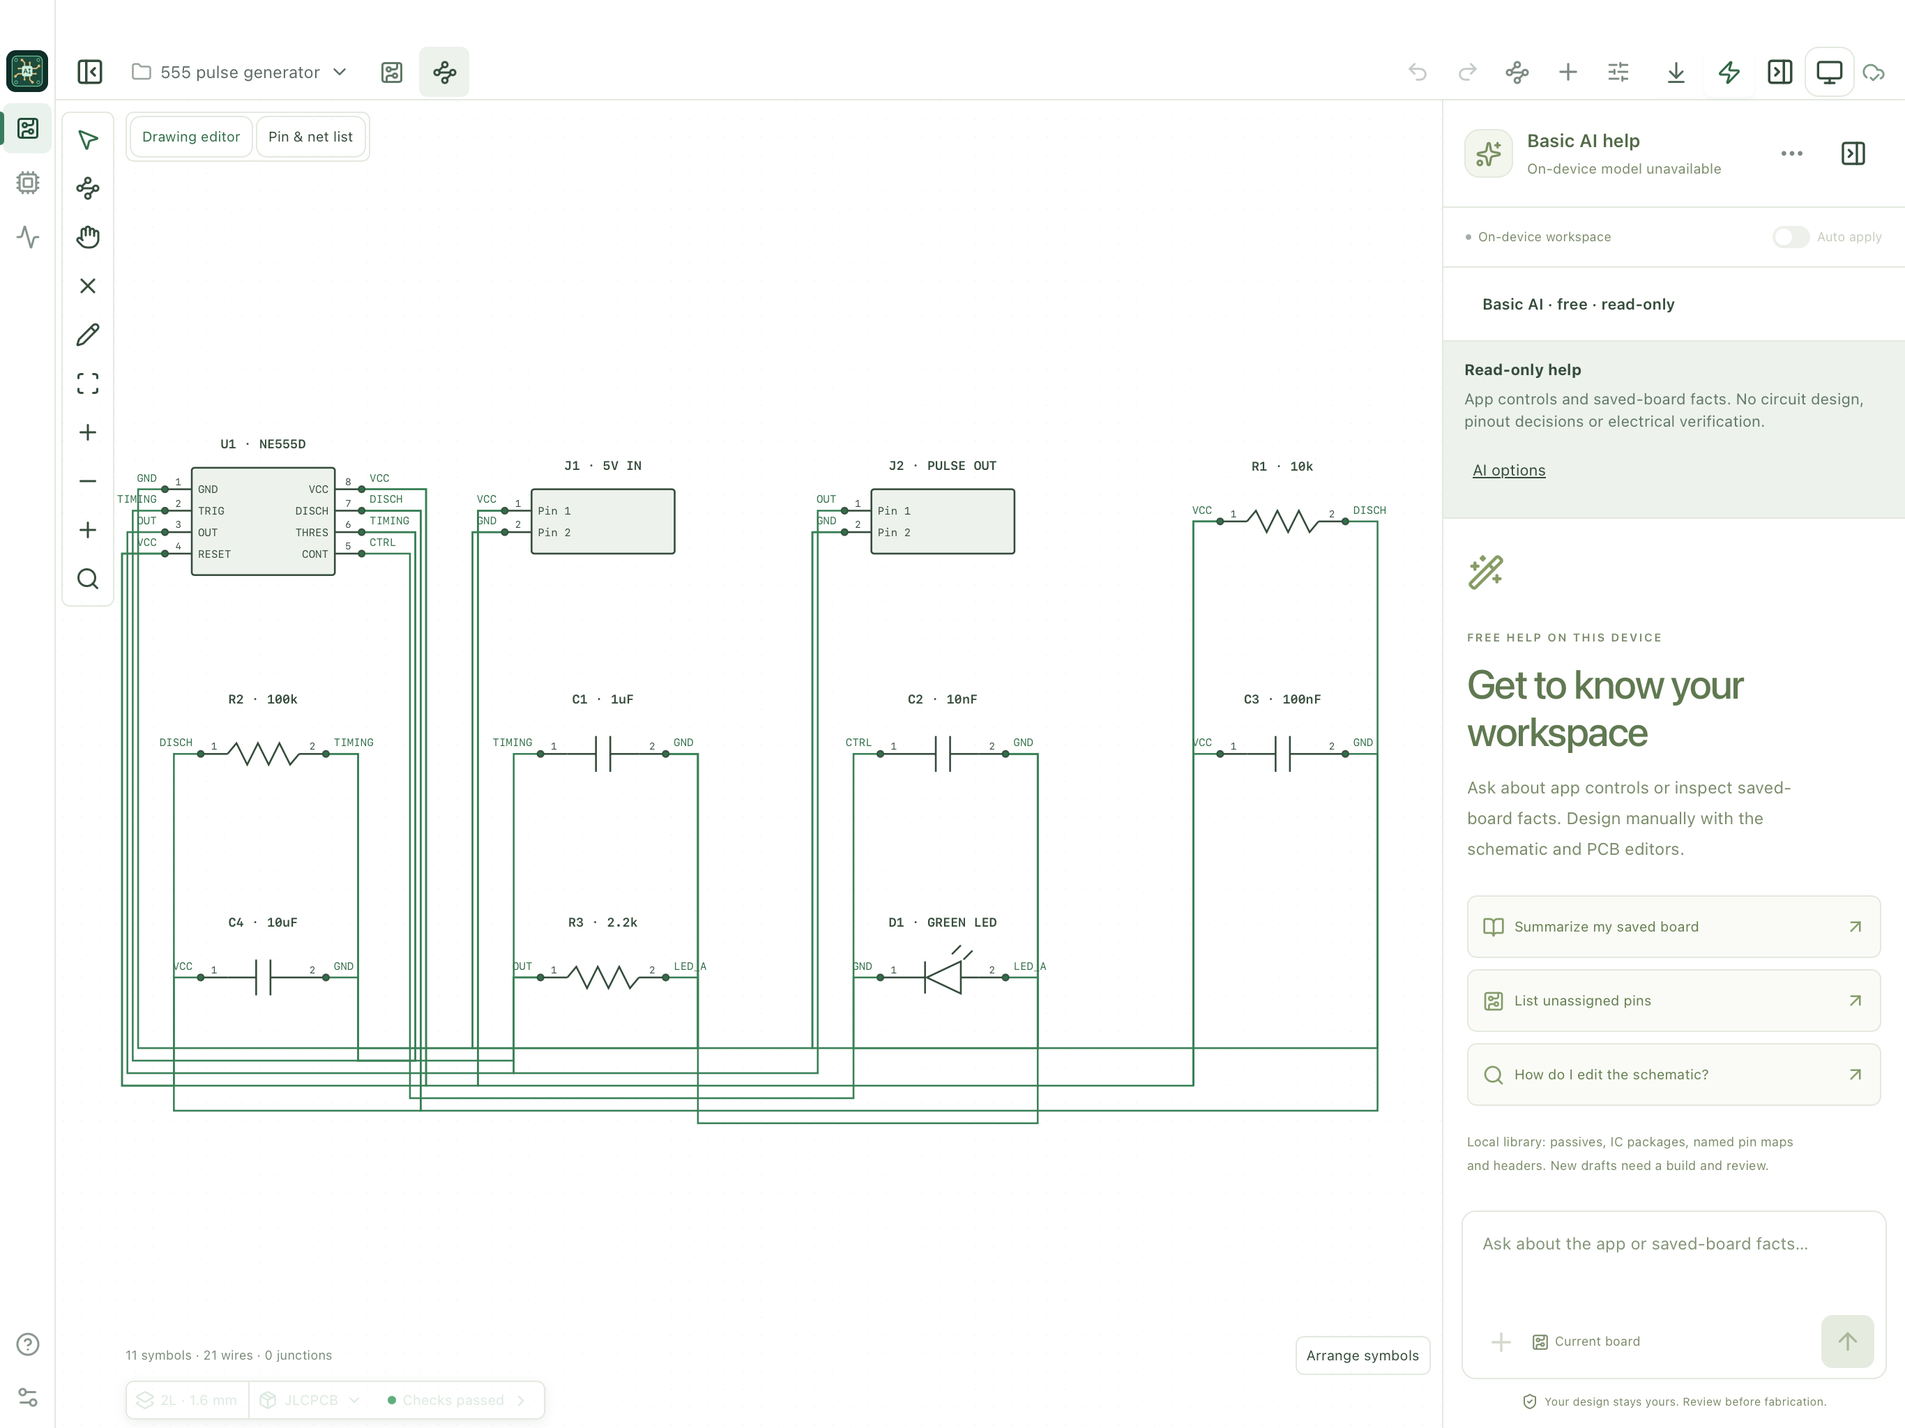
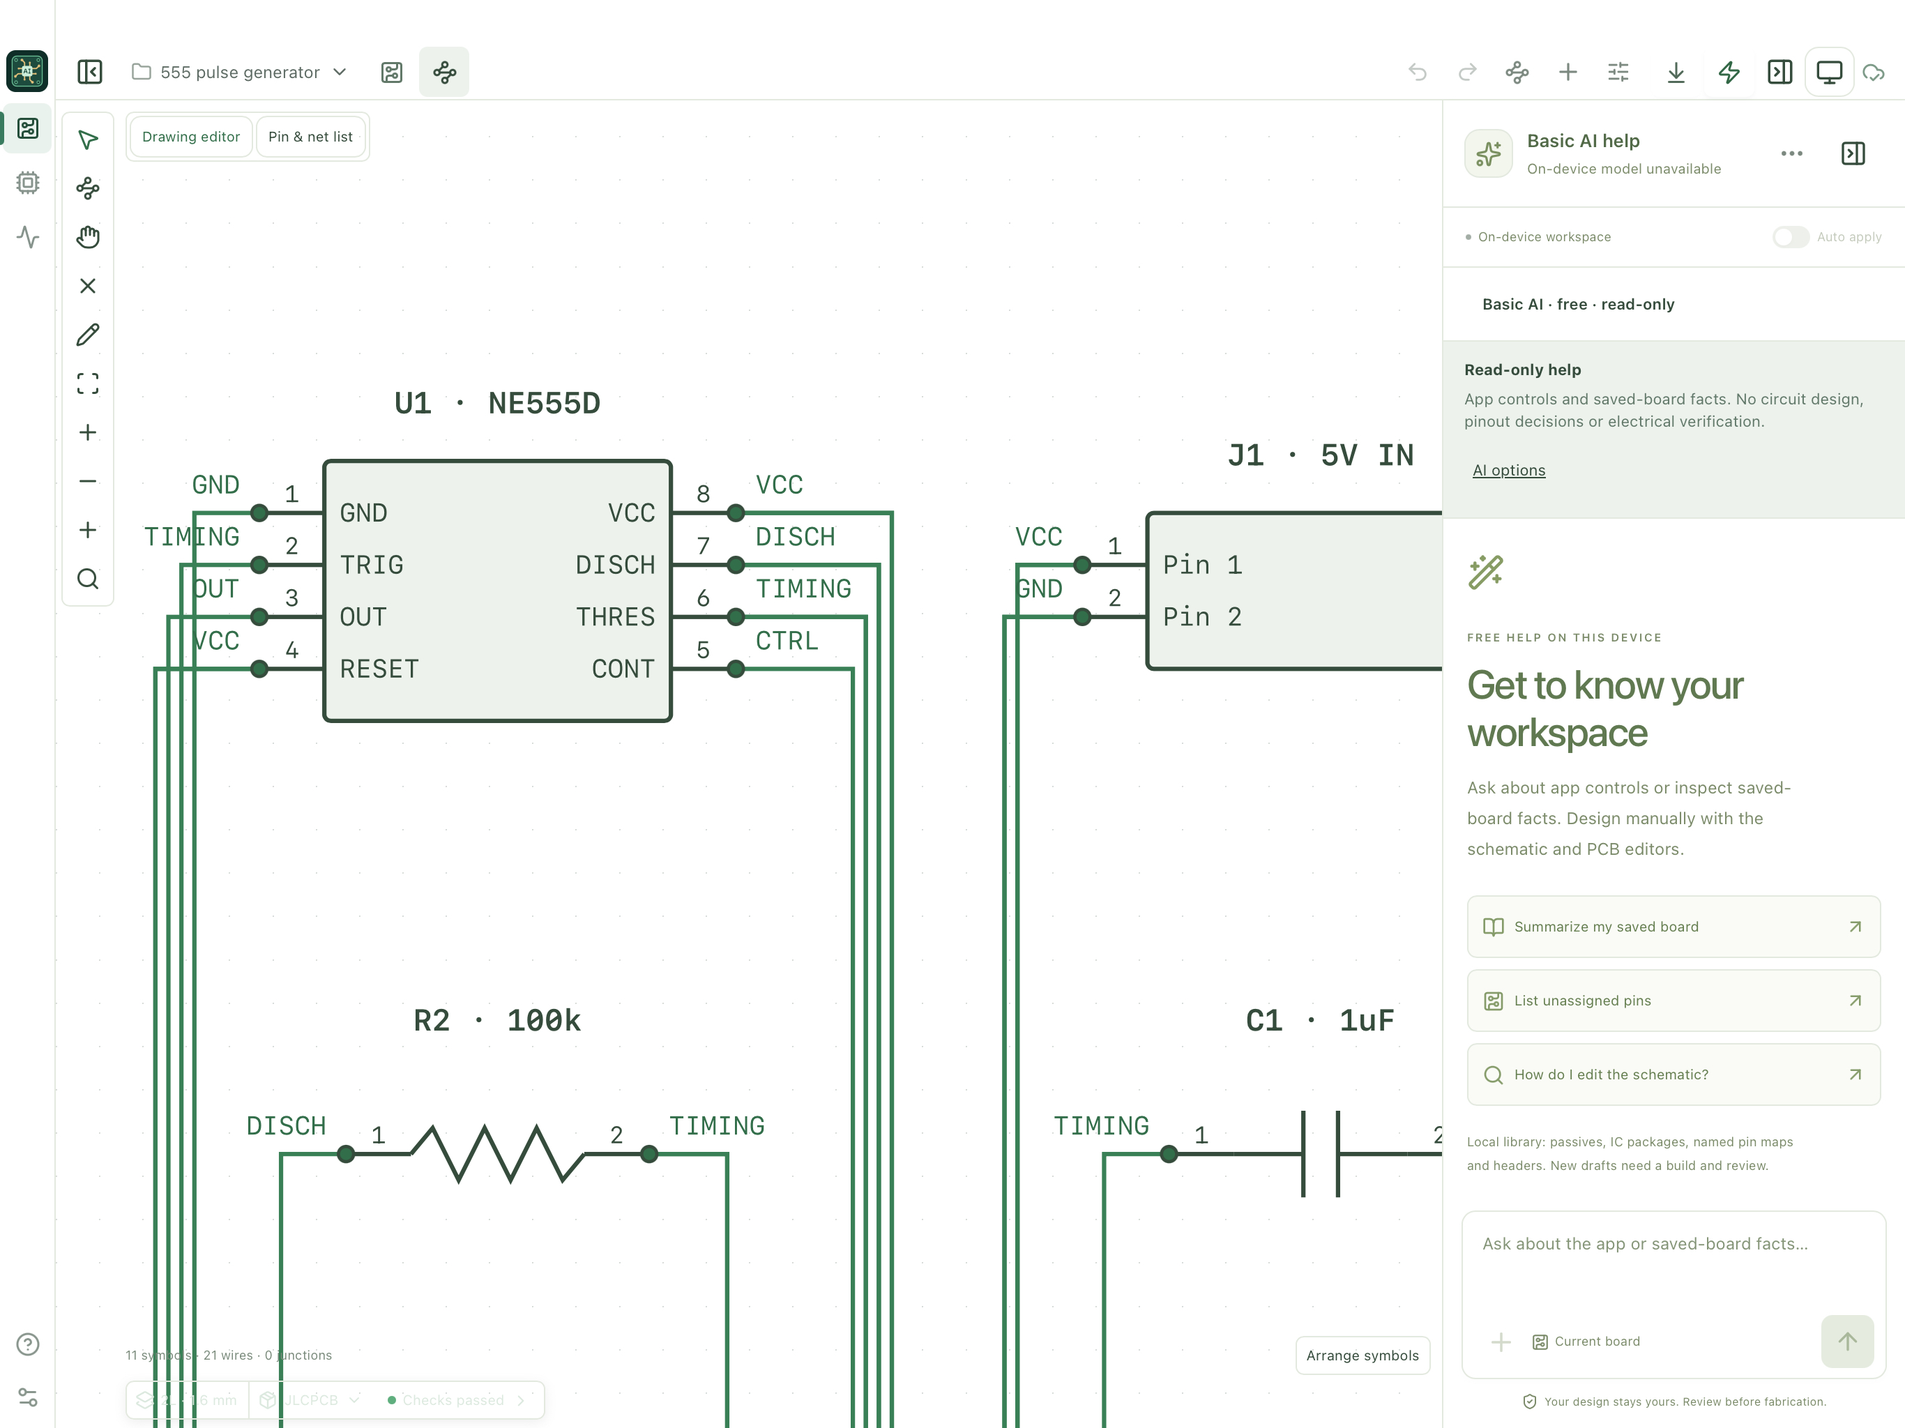
Describe the independent PCB checker and its supported rule coverage

diff --git a/index.html b/index.html
@@ -1,19 +1,19 @@
 <!doctype html>
-<html lang="en"><head><meta charset="utf-8"><meta name="viewport" content="width=device-width,initial-scale=1"><meta name="description" content="An AI-assisted PCB design suite for iPad and iPhone. Create schematics with Apple Pencil, route boards, run native KiCad DRC, source components and export fabrication files."><title>Vibe PCB · AI Design Suite</title><link rel="icon" href="./icon.svg"><style>
+<html lang="en"><head><meta charset="utf-8"><meta name="viewport" content="width=device-width,initial-scale=1"><meta name="description" content="An AI-assisted PCB design suite for iPad and iPhone. Create schematics with Apple Pencil, route boards, run independent PCB DRC, source components and export fabrication files."><title>Vibe PCB · AI Design Suite</title><link rel="icon" href="./icon.svg"><style>
 :root{color-scheme:dark;--ink:#eaf3ed;--muted:#a8bdb1;--mint:#b9f3d2;--line:#2d473d}*{box-sizing:border-box}body{margin:0;background:#10251f;color:var(--ink);font:16px/1.65 system-ui,-apple-system,sans-serif}a{color:var(--mint);text-underline-offset:4px}nav,main,footer{max-width:1160px;margin:auto;padding-left:32px;padding-right:32px}nav{display:flex;align-items:center;justify-content:space-between;gap:20px;padding-top:28px;padding-bottom:28px;border-bottom:1px solid var(--line)}.brand{display:flex;align-items:center;gap:13px;text-decoration:none;color:var(--ink)}.brand img{width:48px;height:48px}.brand b{display:block;font-size:20px;letter-spacing:-.5px}.brand span{display:block;font-size:12px;color:var(--muted)}.nav-links{display:flex;gap:24px;font-size:14px}.eyebrow{text-transform:uppercase;letter-spacing:2px;font-size:12px;color:var(--mint);font-weight:650}.hero{padding:76px 0 52px;max-width:900px}h1{font-size:clamp(40px,6.5vw,76px);line-height:1.06;letter-spacing:-3px;margin:20px 0 28px;font-weight:620}h1 em{font-style:normal;color:var(--mint)}.lead{font-size:21px;line-height:1.6;max-width:800px;color:#c5d6cb}.capabilities{display:flex;flex-wrap:wrap;gap:10px;margin-top:28px}.capabilities span{border:1px solid #426352;border-radius:6px;padding:7px 12px;font-size:13px;color:#dfefe4}.product{border:1px solid #527160;border-radius:14px;overflow:hidden;background:#193a2d;box-shadow:0 24px 70px #0003;margin:0}.product img{display:block;width:100%;height:auto}.product figcaption{font-size:12px;color:var(--muted);padding:12px 18px;border-top:1px solid var(--line)}h2{font-size:36px;letter-spacing:-1px;line-height:1.2;margin:0 0 15px}.section{padding:72px 0;border-bottom:1px solid var(--line)}.intro{max-width:720px;color:var(--muted)}.features{display:grid;grid-template-columns:repeat(3,1fr);gap:28px;margin-top:38px}.feature{border-top:1px solid #638370;padding-top:20px}.number{font-size:12px;color:#ccba84;letter-spacing:2px}h3{font-size:20px;letter-spacing:-.4px;margin:14px 0 8px}.feature p{color:var(--muted);margin:0}.workflow{display:grid;grid-template-columns:1fr 1fr;gap:32px;align-items:center;margin-top:36px}.workflow img{width:100%;border:1px solid var(--line);border-radius:10px}.pricing{display:grid;grid-template-columns:1fr 1fr;gap:50px}.price{font-size:56px;line-height:1.2;letter-spacing:-2px;margin:20px 0}.price small{font-size:16px;letter-spacing:0;color:var(--muted)}.note{font-size:13px;color:var(--muted)}footer{padding-top:32px;padding-bottom:40px;color:var(--muted);font-size:13px}footer a{margin-right:20px}details{margin-top:24px;padding:16px 0;border-top:1px solid var(--line)}summary{cursor:pointer;color:var(--ink)}@media(max-width:760px){nav,main,footer{padding-left:20px;padding-right:20px}.nav-links{gap:15px}.nav-links a:first-child{display:none}.hero{padding-top:48px}h1{letter-spacing:-1.8px}.lead{font-size:18px}.features{grid-template-columns:1fr 1fr}.workflow,.pricing{grid-template-columns:1fr}.section{padding:48px 0}.brand span{font-size:11px}}@media(max-width:440px){.features{grid-template-columns:1fr}.brand b{font-size:17px}.brand img{width:40px;height:40px}.nav-links{font-size:12px}}
 </style></head><body>
 <nav><a class="brand" href="./index.html"><img src="./icon.svg" alt="PCB with a discreet AI chip"><div><b>Vibe PCB</b><span>AI-assisted PCB design suite</span></div></a><div class="nav-links"><a href="#tools">Design tools</a><a href="./support.html">Support</a><a href="./privacy.html">Privacy</a></div></nav>
-<main><section class="hero"><span class="eyebrow">iPad & iPhone · In development</span><h1>From schematic<br>to a <em>sourced PCB.</em></h1><p class="lead">Create circuits with Apple Pencil. Place and route your board. Run native KiCad design-rule checks and export for fabrication. Add AI for design assistance, datasheet research and component discovery.</p><div class="capabilities"><span>Schematic creation</span><span>8-layer routing</span><span>Native DRC</span><span>Ground pours</span><span>Component sourcing</span><span>Fabrication export</span></div></section>
+<main><section class="hero"><span class="eyebrow">iPad & iPhone · In development</span><h1>From schematic<br>to a <em>sourced PCB.</em></h1><p class="lead">Create circuits with Apple Pencil. Place and route your board. Run independent PCB design-rule checks and export for fabrication. Add AI for design assistance, datasheet research and component discovery.</p><div class="capabilities"><span>Schematic creation</span><span>8-layer routing</span><span>On-device DRC</span><span>Ground pours</span><span>Component sourcing</span><span>Fabrication export</span></div></section>
 <figure class="product"><img src="./images/pcb.jpg" width="2732" height="2048" alt="Actual iPad app showing an editable routed 555 timer PCB, ground pours, copper layers and passed design-rule checks"><figcaption>Actual app in iPad Simulator · editable board, preserved routes and native checks. Basic AI availability depends on the device.</figcaption></figure>
 <section class="section" id="tools"><h2>The tools to create the board.</h2><p class="intro">A connected design workflow, from symbols and nets to copper and fabrication files. Your local CAD workspace runs on the device without a Mac or server.</p><div class="features">
 <article class="feature"><span class="number">01 / SCHEMATIC</span><h3>Draw the circuit.</h3><p>Create and edit schematics, move and rotate symbols, wire pins and add junctions. Apple Pencil edits on supported iPads while fingers navigate.</p></article>
 <article class="feature"><span class="number">02 / PCB LAYOUT</span><h3>Place. Route. Refine.</h3><p>Manual and automatic trace routing across 2, 4, 6 or 8 layers. Edit widths, add through vias and refill board-wide ground or power pours.</p></article>
-<article class="feature"><span class="number">03 / RULE CHECKS</span><h3>Check the copper.</h3><p>Run the native KiCad engine locally for clearance, connectivity and geometry checks. Review findings before exporting your current revision.</p></article>
+<article class="feature"><span class="number">03 / RULE CHECKS</span><h3>Check the copper.</h3><p>Run the independent Vibe PCB engine locally for clearance, connectivity and geometry checks. Review findings before exporting your current revision.</p></article>
 <article class="feature"><span class="number">04 / AI & SOURCING</span><h3>Find the right parts.</h3><p>Optional online AI proposes design changes, searches public datasheets and finds JLCPCB stock references. Download supported KiCad and EasyEDA footprints into your project library.</p></article>
 <article class="feature"><span class="number">05 / MANUFACTURING</span><h3>Export for fabrication.</h3><p>Save Gerbers, drills, BOM, placement files and an editable KiCad PCB. Use JLCPCB or generic manufacturer export presets and independently review the files.</p></article>
 <article class="feature"><span class="number">06 / YOUR WORK</span><h3>Keep building.</h3><p>Import supported KiCad documents as editable converted copies. Keep projects and chat locally, restore recovery points and save independent backups to Files.</p></article>
 </div><div class="workflow"><img src="./images/schematic.jpg" width="2732" height="2048" loading="lazy" alt="Actual editable schematic view with circuit symbols and connected nets"><div><span class="eyebrow">One workspace, two ways to design</span><h3>Your tools. Your AI connection.</h3><p class="intro">Edit the circuit yourself or ask a connected AI to propose supported changes. Connect OpenAI, Claude, Grok or a compatible provider using your own API key. Review proposals or enable auto apply; board validation and Build checks still apply.</p></div></div></section>
 <section class="section pricing"><div><span class="eyebrow">Planned launch pricing</span><h2>Your CAD tools.<br>One purchase.</h2><p class="price">$39.99 <small>USD · one time</small></p><p class="intro">Local schematic and PCB tools, routing, native DRC and export are included. No AI account is required for local CAD.</p></div><div><h3>Online AI is optional.</h3><p class="intro">Bring your own supported provider key; AI usage is billed separately by that provider. Research budgets are adjustable. Apple Basic AI offers limited, read-only help on compatible devices when available.</p><p class="note">Pre-release product. Vibe PCB is a working name and may change. Public availability is pending release qualification and distribution review. ChatGPT subscription sign-in is not promised for the public release.</p></div></section>
-<details><summary>Supported design scope and fabrication review</summary><p class="note">Rectangular 12–200 mm boards, up to 128 components and 1024 pads, top-side components and through vias. Board-wide pours use thermal or solid connections. Converted KiCad imports have restrictions; other boards can be inspected read-only. Native schematic round-trip export, arbitrary polygon-zone editing, controlled impedance, differential-pair tuning, blind/buried vias and electrical simulation are outside the current scope. DRC does not establish circuit correctness. Verify pinouts, ratings, footprints, fabrication stack-up, Gerbers, drills and assembly rotations before ordering. Stock references do not reserve parts or place orders. See Support for current limits.</p></details>
+<details><summary>Supported design scope and fabrication review</summary><p class="note">Independent checking covers supported copper geometry, connectivity and project parity. Arbitrary KiCad rules, creepage, differential-pair, silkscreen and solder-mask constraints are not evaluated.</p><p class="note">Rectangular 12–200 mm boards, up to 128 components and 1024 pads, top-side components and through vias. Board-wide pours use thermal or solid connections. Converted KiCad imports have restrictions; other boards can be inspected read-only. Native schematic round-trip export, arbitrary polygon-zone editing, controlled impedance, differential-pair tuning, blind/buried vias and electrical simulation are outside the current scope. DRC does not establish circuit correctness. Verify pinouts, ratings, footprints, fabrication stack-up, Gerbers, drills and assembly rotations before ordering. Stock references do not reserve parts or place orders. See Support for current limits.</p></details>
 </main><footer><p><a href="./support.html">Support & getting started</a><a href="./privacy.html">Privacy policy</a><a href="mailto:Contact@operationembedded.net">Contact</a></p><p>© 2026 Operation Embedded. An independent application; not affiliated with KiCad, Apple, OpenAI or PCB manufacturers.</p></footer>
 </body></html>

diff --git a/support.html b/support.html
@@ -1,5 +1,5 @@
-<!doctype html><html lang="en"><head><meta charset="utf-8"><meta name="viewport" content="width=device-width, initial-scale=1"><title>Vibe PCB Support</title><style>html{color-scheme:light dark}body{font:17px/1.65 system-ui;margin:32px auto;padding:0 22px;max-width:760px}a{color:light-dark(#176447,#9dd5b3)}h2{font-size:21px}</style></head><body><a href="./index.html">Return to Vibe PCB</a><h1>Vibe PCB: AI Design Suite</h1><p>Schematic creation with Apple Pencil on iPad, component placement, manual and automatic routing, native KiCad DRC, ground pours, AI component discovery and fabrication export for iPad and iPhone. <a href="./index.html">Explore the design suite</a>.</p><p><strong>Working name:</strong> Vibe PCB may be renamed before release. These pages currently describe the app developed by Operation Embedded.</p><p>Contact <a href="mailto:Contact@operationembedded.net">Contact@operationembedded.net</a>. Include the app version/build, device model, steps to reproduce and copied error text. Do not send API keys, account tokens or confidential designs.</p>
+<!doctype html><html lang="en"><head><meta charset="utf-8"><meta name="viewport" content="width=device-width, initial-scale=1"><title>Vibe PCB Support</title><style>html{color-scheme:light dark}body{font:17px/1.65 system-ui;margin:32px auto;padding:0 22px;max-width:760px}a{color:light-dark(#176447,#9dd5b3)}h2{font-size:21px}</style></head><body><a href="./index.html">Return to Vibe PCB</a><h1>Vibe PCB: AI Design Suite</h1><p>Schematic creation with Apple Pencil on iPad, component placement, manual and automatic routing, independent PCB DRC, ground pours, AI component discovery and fabrication export for iPad and iPhone. <a href="./index.html">Explore the design suite</a>.</p><p><strong>Working name:</strong> Vibe PCB may be renamed before release. These pages currently describe the app developed by Operation Embedded.</p><p>Contact <a href="mailto:Contact@operationembedded.net">Contact@operationembedded.net</a>. Include the app version/build, device model, steps to reproduce and copied error text. Do not send API keys, account tokens or confidential designs.</p>
 <h2>Start without AI</h2><p>Create a Pocket LED template, inspect its schematic and PCB, then tap Build. Open Board details to review DRC and Export to save a project or manufacturing ZIP to Files. No AI key or host is required for local CAD. Online AI requires your own provider connection and separate usage charges. Apple Basic AI is limited, read-only help on compatible devices.</p>
 <h2>Recover your work</h2><p>Open Workspace settings → Automatic recovery copies. Choose a point and restore it as project copies. For independent backups, use Save workspace backup and save to Files. Automatic recovery points stay in app storage and do not survive app deletion. Restore Files backups with Restore projects & chat from backup.</p>
-<h2>Pencil and routing</h2><p>In Pencil mode, fingers navigate while Pencil edits. Route traces by selecting an assigned pad, adding corners and finishing on the same net. Board details → Ground pours & power planes assigns one board-wide pour per layer. Build refills pours with native KiCad and checks preserved manual traces. Saved fills are invalidated after board edits; rebuild before export.</p>
-<h2>Supported scope</h2><p>Local CAD supports 2/4/6/8 layers, 12–200 mm boards, up to 128 components and 1024 pads, top-side component placement, straight traces and through vias. Board-wide pours support thermal and solid pad connections. Controlled impedance, blind/buried vias, differential-pair tuning, electrical simulation and arbitrary polygon-zone editing are not supported. DRC checks geometry and connectivity, not circuit correctness.</p><p>Compatible KiCad boards and single-sheet schematics import as converted editable copies, subject to the import review’s restrictions. Other boards can be inspected read-only with native KiCad. Conversion is not lossless native KiCad editing. Native schematic round-trip export is not available. Preserve original files. Downloaded footprints require manufacturer verification of physical geometry and pin functions.</p><p>Before ordering, independently review exported Gerbers, drills, BOM, assembly rotations, pinouts, ratings and fabrication stack-up. Inventory is a source-time reference and does not reserve stock or place orders.</p><p><a href="./privacy.html">Privacy policy</a></p></body></html>
+<h2>Pencil and routing</h2><p>In Pencil mode, fingers navigate while Pencil edits. Route traces by selecting an assigned pad, adding corners and finishing on the same net. Board details → Ground pours & power planes assigns one board-wide pour per layer. Build refills pours with the independent engine and checks preserved manual traces. Saved fills are invalidated after board edits; rebuild before export.</p>
+<h2>Supported scope</h2><p>Independent DRC checks supported copper geometry, connectivity and saved-project parity. Arbitrary KiCad custom rules, creepage, differential-pair constraints, silkscreen and solder-mask rules are not evaluated. Standalone inspection uses stored zone fills; unfilled or unsupported constructions prevent complete coverage.</p><p>Local CAD supports 2/4/6/8 layers, 12–200 mm boards, up to 128 components and 1024 pads, top-side component placement, straight traces and through vias. Board-wide pours support thermal and solid pad connections. Controlled impedance, blind/buried vias, differential-pair tuning, electrical simulation and arbitrary polygon-zone editing are not supported. DRC checks geometry and connectivity, not circuit correctness.</p><p>Compatible KiCad boards and single-sheet schematics import as converted editable copies, subject to the import review’s restrictions. Other supported boards can be inspected read-only with the independent PCB inspector; unsupported geometry and rules are listed. Conversion is not lossless native KiCad editing. Native schematic round-trip export is not available. Preserve original files. Downloaded footprints require manufacturer verification of physical geometry and pin functions.</p><p>Before ordering, independently review exported Gerbers, drills, BOM, assembly rotations, pinouts, ratings and fabrication stack-up. Inventory is a source-time reference and does not reserve stock or place orders.</p><p><a href="./privacy.html">Privacy policy</a></p></body></html>
